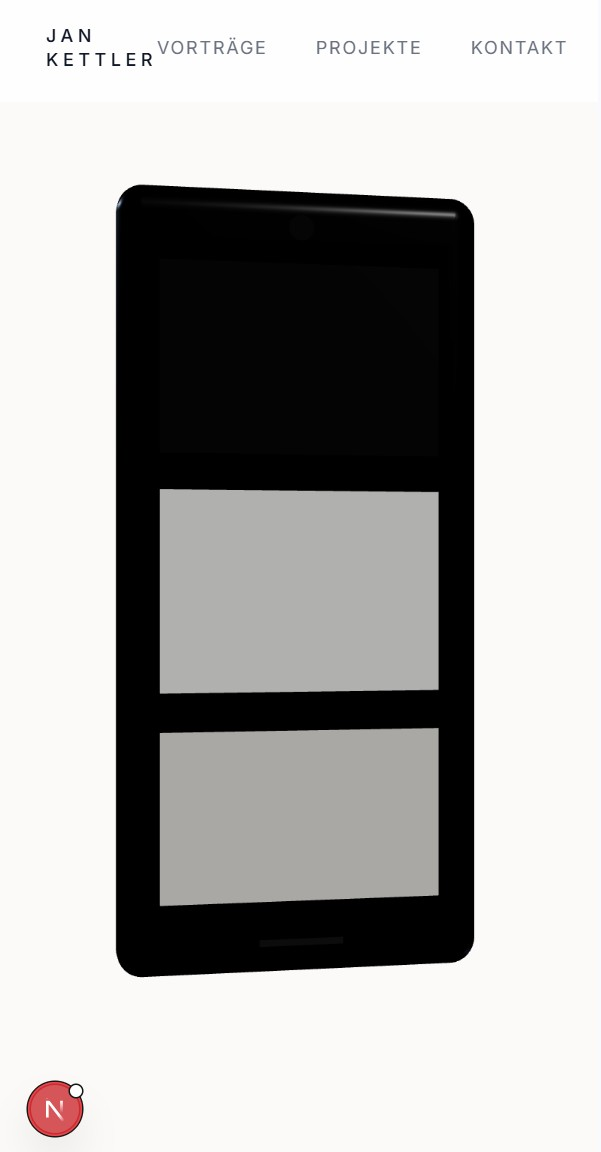
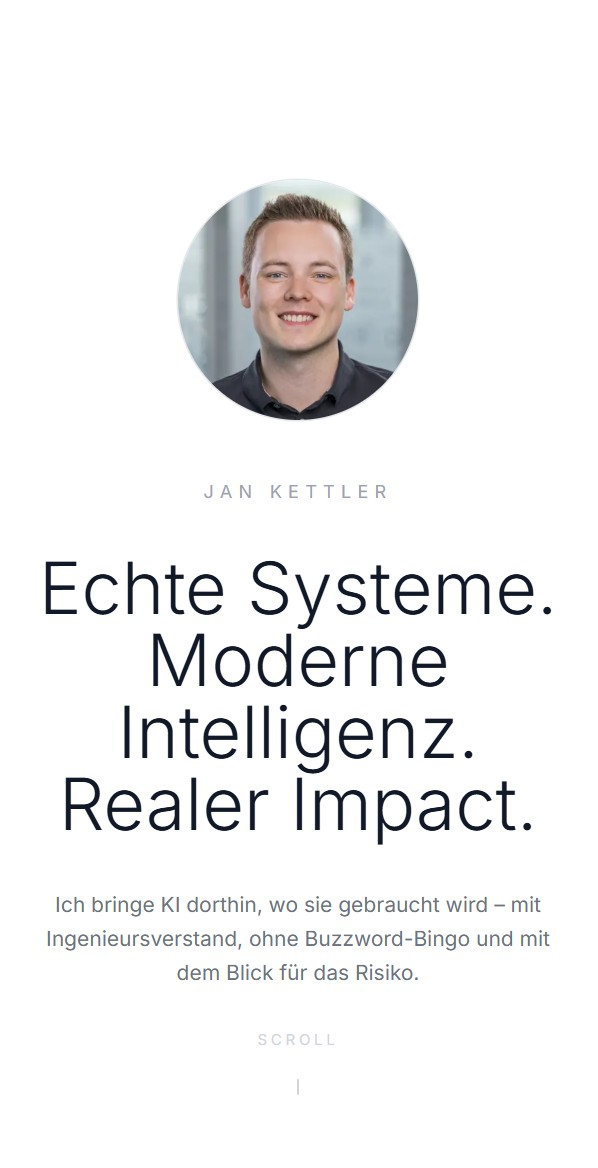
Overhaul TechReveal scroll timing, blueprint bg, and 3D scene polish
- Fix scroll offset to ['start start', 'end start'] so animations only
  trigger after Trinity is fully scrolled past; grow container to 200vh
- Replace white flash with parchment blueprint background that fades in
  during scroll; STAGE object makes all timing adjustments maintainable
- 'Substanz statt Hype' always visible on arrival, drifts up -30vh as
  phone flies in; subtext fades in alongside bg
- Chatbot section switched to bg-parchment + engineering-layer to match
- Panel labels reset visibility/opacity on re-scroll so no flash on
  re-entry; group starts with visible=false
- Adjust panel label position and counter offset for better spacing
- Update INTRO_START/INTRO_END to match new STAGE timing constants

diff --git a/components/transition/TechReveal.tsx b/components/transition/TechReveal.tsx
@@ -14,23 +14,38 @@ export default function TechReveal() {
 
   const { scrollYProgress } = useScroll({
     target: containerRef,
-    offset: ['start end', 'start start'],
+    // 'start start' → tracking begins once the section top reaches the viewport top
+    // (user has fully scrolled past Trinity). 'end start' → ends when section bottom
+    // reaches viewport top. Total range = container height = 200vh.
+    offset: ['start start', 'end start'],
   });
 
-  const flashOpacity = useTransform(scrollYProgress, [0.04, 0.07, 0.14], [0, 1, 0]);
-  const sceneOpacity = useTransform(scrollYProgress, [0.38, 0.50], [0, 1]);
-  const claimOpacity = useTransform(scrollYProgress, [0.12, 0.20], [0, 1]);
-  const claimY       = useTransform(scrollYProgress, [0.20, 0.36], ['40vh', '0vh']);
-  const subOpacity   = useTransform(scrollYProgress, [0.16, 0.26], [0, 1]);
+  // ─── Scroll stages — adjust these numbers to shift timing ───────────────────
+  // Each stage is [start, end] as a fraction of the 200vh scroll window.
+  // 0.01 = ~2vh of scroll, 0.50 = ~100vh. Sticky phase lasts ~0–0.50 (100vh).
+  // Stages must run in order: text → bg+subtext → phone → text moves up.
+  // IMPORTANT: keep STAGE.phoneIn[0] in sync with INTRO_START in PhoneScene.tsx.
+  const STAGE = {
+    bgFade:    [0.10, 0.26] as const,  // white → parchment
+    subtextIn: [0.12, 0.24] as const,  // subtext appears alongside bg fade
+    phoneIn:   [0.28, 0.40] as const,  // 3D canvas fades in (subtext done at 0.24)
+    textUp:    [0.28, 0.46] as const,  // text drifts up as phone arrives
+  };
+  // ─────────────────────────────────────────────────────────────────────────────
+
+  // claimOpacity removed — text is visible from the start so the section never looks empty
+  const blueprintOpacity = useTransform(scrollYProgress, [...STAGE.bgFade],    [0, 1]);
+  const subOpacity       = useTransform(scrollYProgress, [...STAGE.subtextIn], [0, 1]);
+  const sceneOpacity     = useTransform(scrollYProgress, [...STAGE.phoneIn],   [0, 1]);
+  const claimY           = useTransform(scrollYProgress, [...STAGE.textUp],    ['0vh', '-30vh']);
 
   return (
-    // 160vh: ~100vh scroll tracking + 60vh sticky breathing room
-    <div ref={containerRef} style={{ height: '160vh' }}>
+    <div ref={containerRef} style={{ height: '200vh' }}>{/* 200vh = 100vh sticky + 100vh scroll-away */}
       <div className="sticky top-0 h-screen overflow-hidden" style={{ isolation: 'isolate' }}>
-        {/* White overexposure flash */}
+        {/* Blueprint background — fades in over the white page background */}
         <motion.div
-          className="absolute inset-0 z-20 pointer-events-none bg-white"
-          style={{ opacity: flashOpacity }}
+          className="absolute inset-0 z-0 pointer-events-none bg-parchment engineering-layer"
+          style={{ opacity: blueprintOpacity }}
         />
 
         {/* 3D canvas */}
@@ -39,8 +54,8 @@ export default function TechReveal() {
         </motion.div>
 
         {/* Claim overlay — starts centered, floats to top above 3D scene */}
-        <div className="absolute inset-0 z-10 flex flex-col items-center justify-start pt-[10vh] pointer-events-none px-6 text-center">
-          <motion.div style={{ opacity: claimOpacity, y: claimY }}>
+        <div className="absolute inset-0 z-10 flex flex-col items-center justify-center pointer-events-none px-6 text-center">
+          <motion.div style={{ y: claimY }}>
             <h2 className="font-sans font-light text-gray-900 text-5xl md:text-7xl lg:text-8xl leading-[1.05]">
               Substanz statt Hype.
             </h2>

diff --git a/components/transition/PhoneScene.tsx b/components/transition/PhoneScene.tsx
@@ -110,8 +110,8 @@ const PHONE_ROT_X    =  0.06;
 
 const CAM_START      = new THREE.Vector3(0, 0, 2.2);
 const CAM_END        = new THREE.Vector3(0, 0.8, 10.5);
-const INTRO_START    = 0.38;
-const INTRO_END      = 0.56;
+const INTRO_START    = 0.28; // keep in sync with STAGE.phoneIn[0] in TechReveal.tsx
+const INTRO_END      = 0.46; // auto-play fires here; must be < sticky release (~0.50)
 
 // Ideation panels
 const PANEL_W        = 0.7;
@@ -281,6 +281,16 @@ function IdeationPanel({
   useFrame(() => {
     if (!groupRef.current) return;
     const elapsed = getElapsed(autoPlayRef.current);
+    groupRef.current.visible = elapsed >= 0;
+    if (elapsed < 0) {
+      if (labelRef.current)   labelRef.current.style.opacity   = '0';
+      if (counterRef.current) counterRef.current.style.opacity = '0';
+      if (triggered.current) {
+        triggered.current = false;
+        setCountActive(false);
+      }
+      return;
+    }
     const t = phaseT(elapsed, delay, duration);
     groupRef.current.position.x = lerp(0, finalX, t);
     groupRef.current.rotation.y = PHONE_ROT_Y;
@@ -297,7 +307,7 @@ function IdeationPanel({
   });
 
   return (
-    <group ref={groupRef}>
+    <group ref={groupRef} visible={false}>
       <mesh>
         <boxGeometry args={[PANEL_W, PANEL_H, 0.05]} />
         <meshStandardMaterial color={PALETTE.ideationPanel} roughness={0.55} metalness={0.05} />
@@ -308,7 +318,7 @@ function IdeationPanel({
       </mesh>
 
       {/* Phase label above panel */}
-      <group position={[0, PANEL_H / 2 + 0.14, 0]}>
+      <group position={[0, PANEL_H / 2 + 0.30, 0]}>
         <Html center transform distanceFactor={4.5} style={{ pointerEvents: 'none' }}>
           <div ref={labelRef} style={{
             opacity: 0,
@@ -324,7 +334,7 @@ function IdeationPanel({
 
       {/* Token/time counter below panel (only when data is available) */}
       {showCounter && (
-        <group position={[0, -PANEL_H / 2 - 0.50, 0]}>
+        <group position={[0, -PANEL_H / 2 - 0.40, 0]}>
           <Html center transform distanceFactor={5} style={{ pointerEvents: 'none' }}>
             <div ref={counterRef} style={{
               opacity: 0, textAlign: 'center',

diff --git a/app/page.tsx b/app/page.tsx
@@ -13,7 +13,7 @@ export default function Page() {
       <SkillsTrinity />
       <TechReveal />
 
-      <section className="py-24 px-6 bg-white">
+      <section className="py-24 px-6 bg-parchment engineering-layer">
         <div className="max-w-5xl mx-auto">
           <h2 className="font-sans font-light text-gray-900 text-4xl md:text-6xl text-center mb-16">
             Bei Fragen, fragen Sie meine KI.
